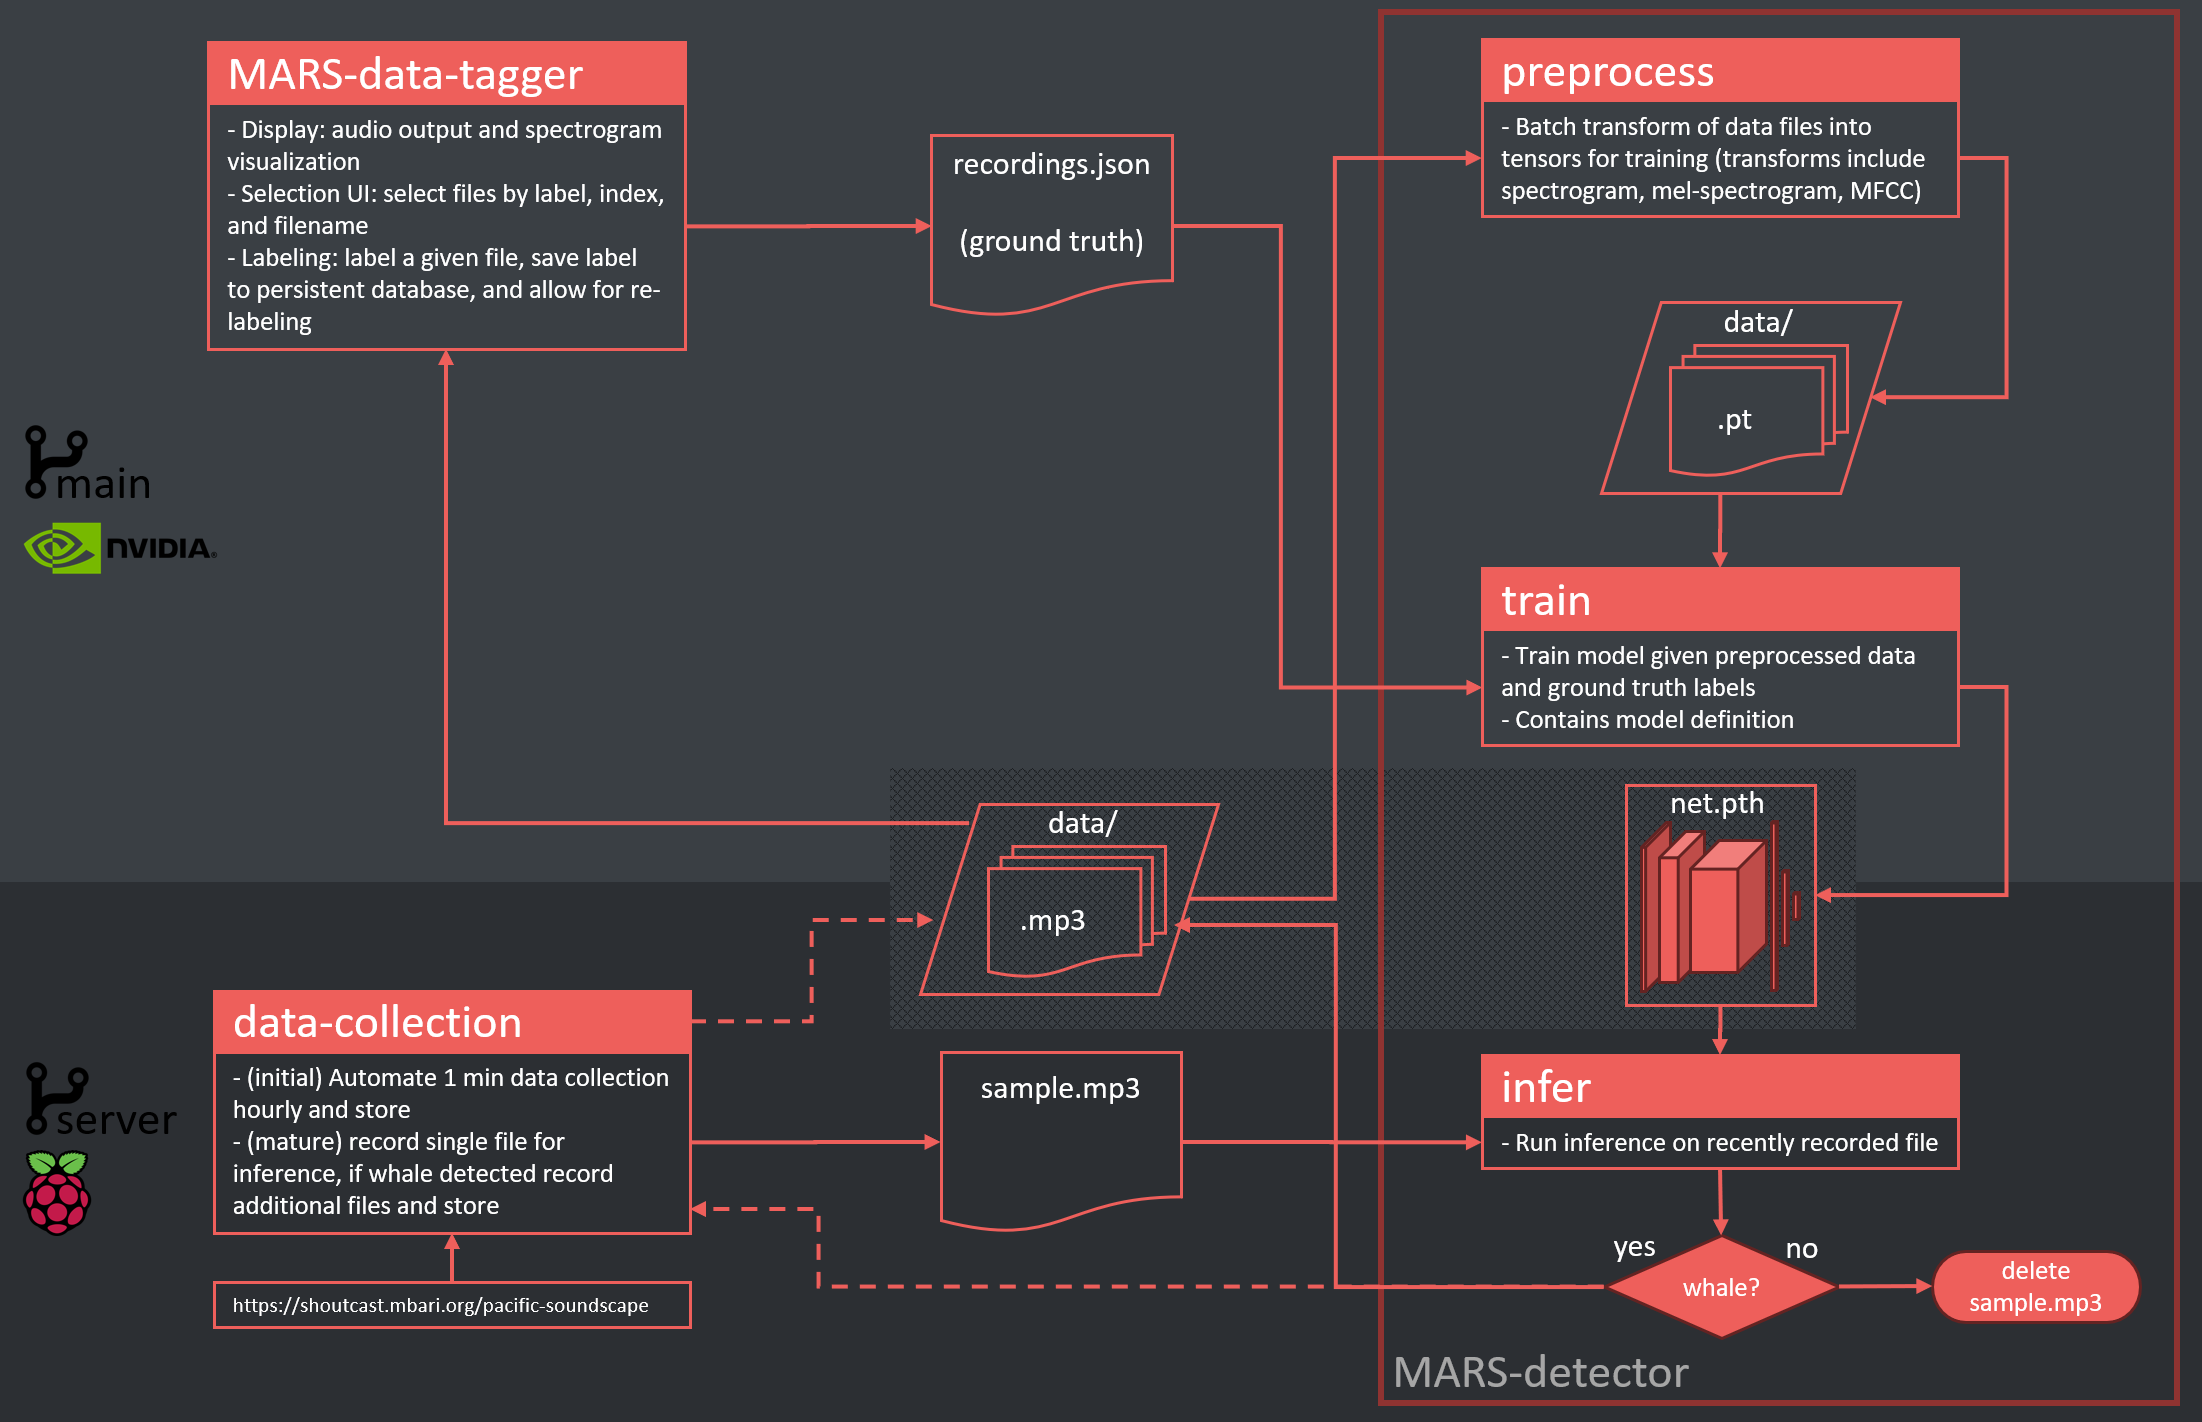
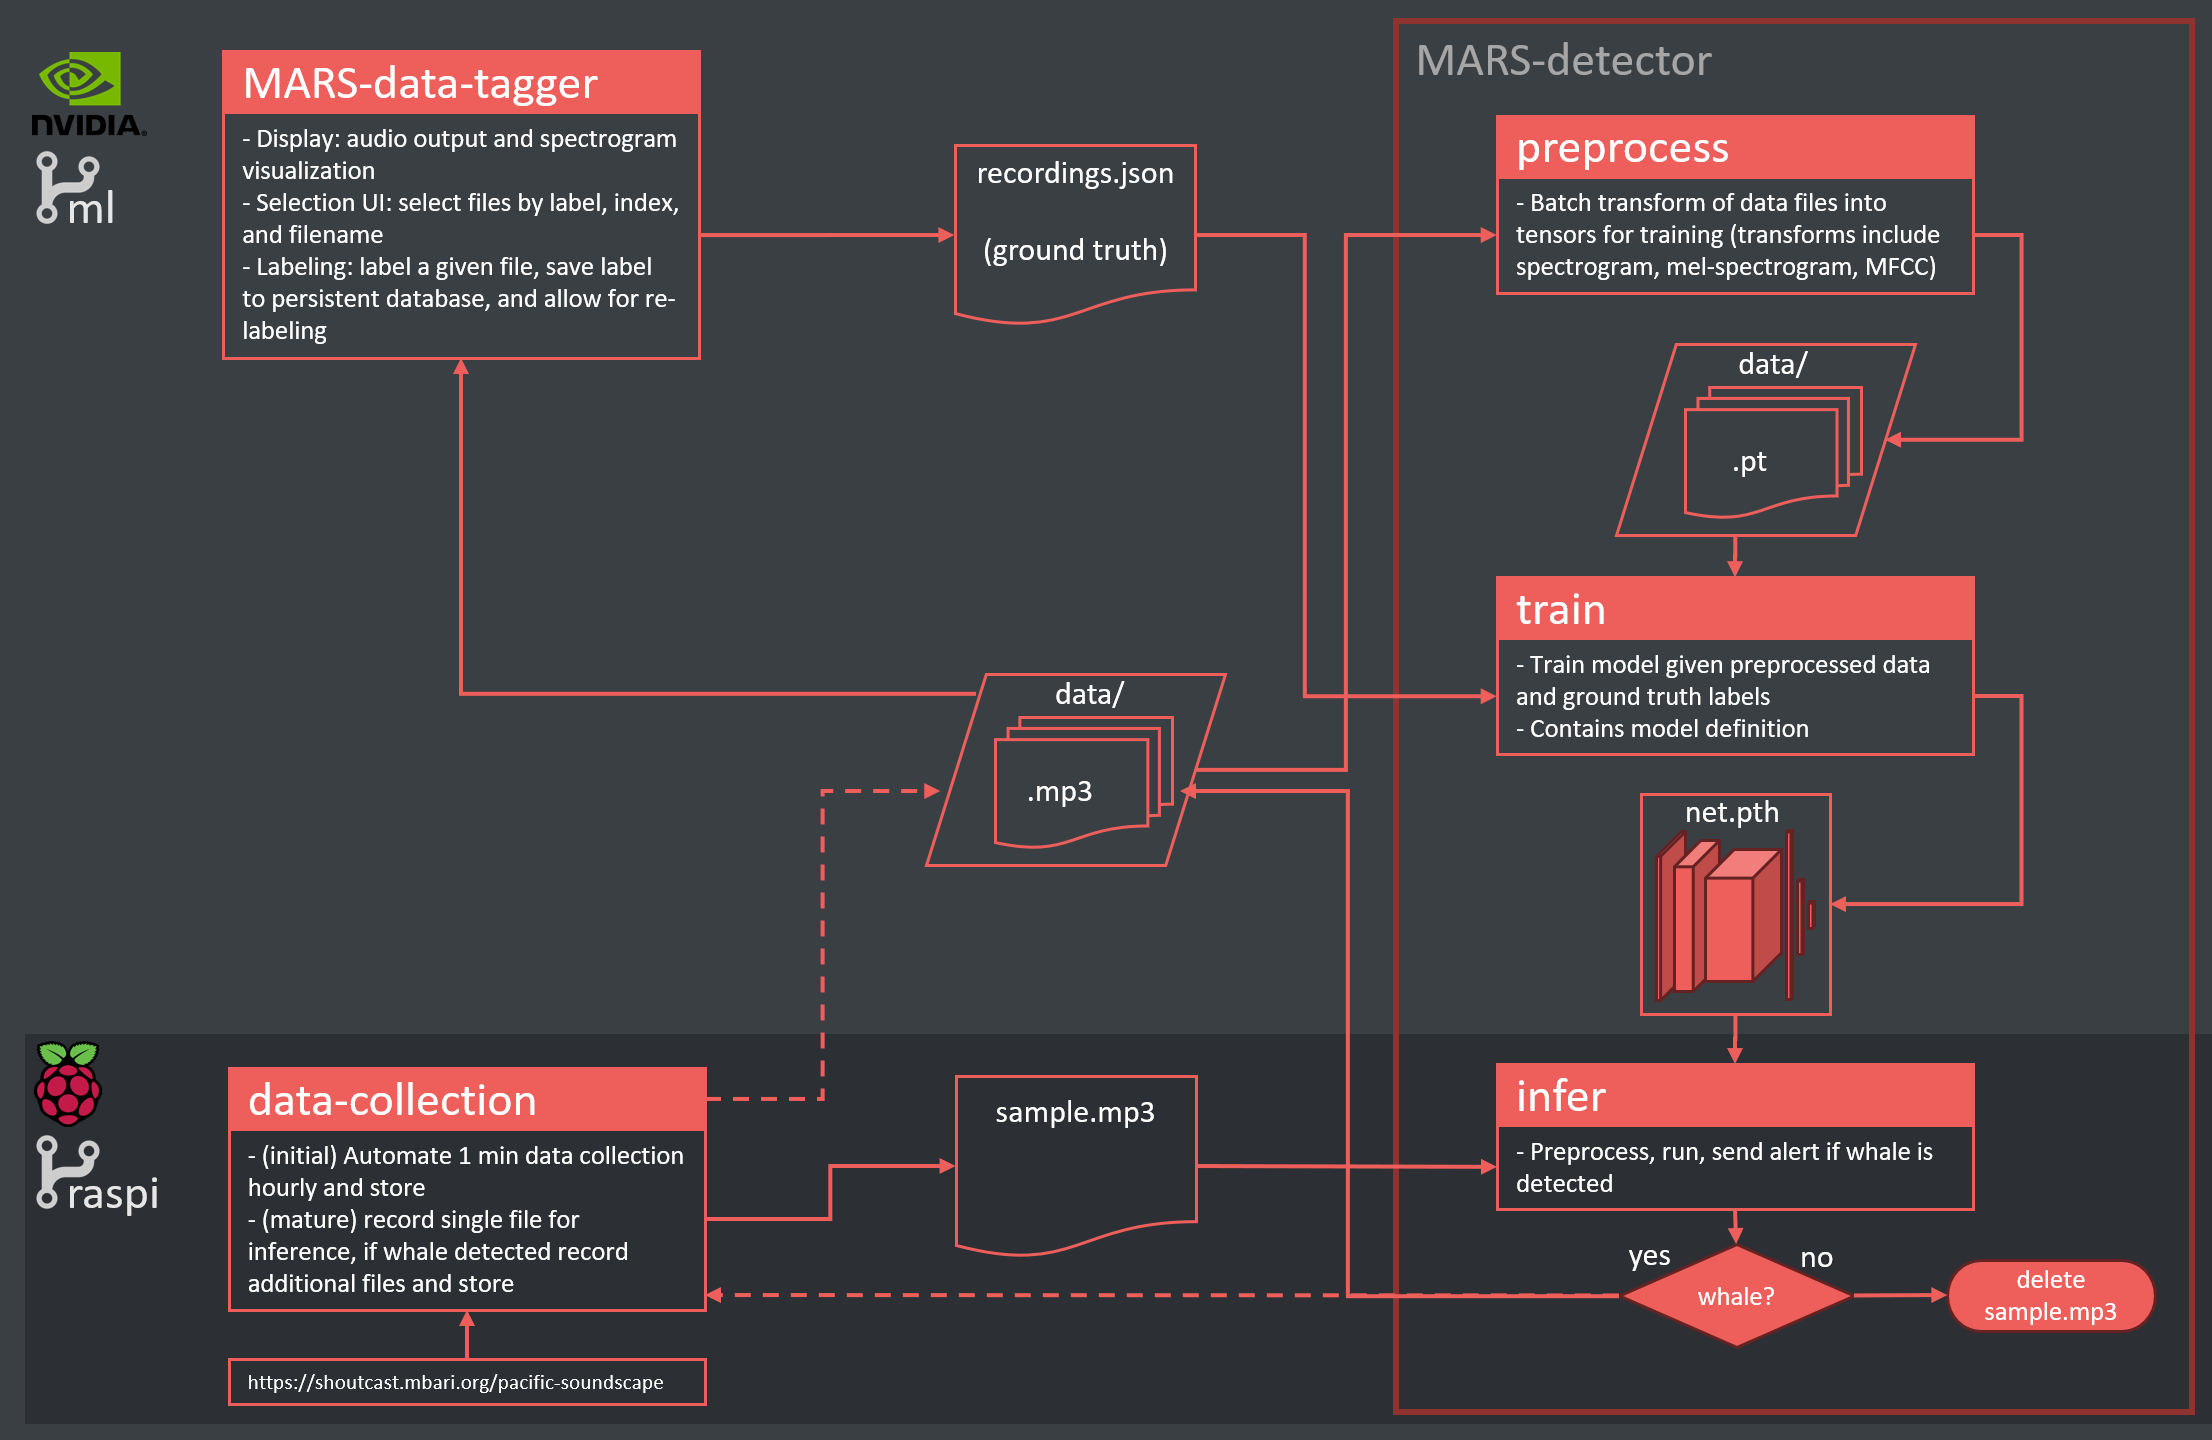
closes #29 updated READMEs

diff --git a/README.md b/README.md
@@ -1,30 +1,38 @@
 # MBARI Hydrophone Stream Monitor
 
-This project will monitor the MBARI hydrophone stream at https://www.mbari.org/soundscape-listening-room/ and determine when humpback whales are vocalizing. 
+This project monitors the MBARI hydrophone stream at https://www.mbari.org/soundscape-listening-room/ and determines when humpback whales are vocalizing. 
 
-After detecting whales, audio clips will be recorded for further analysis and an email alert will be sent out.
+After detecting whales, audio clips are recorded for further analysis and an email alert is sent out.
 
 ![](screenshots/project-architecture.png)
+*Figure 1: Project architecture showing the various code modules and data dependencies. Data tagging and model training are performed on x86 based system with GPU, see ml branch for code. Model inference and data collection completed at set intervals on Raspberry Pi, see raspi branch*
+
 
 ### data-collection 
-shell scripts to collect 10 sec data snippets to build dataset, these are run at regular intervals on a rasberry pi
+This module contains shell scripts that collect 10 sec data snippets. 
+
+In the initial stages of the project data_collect.sh was run at regular intervals (every hour) on a rasberry pi to collect a base dataset for model training.
+
+Once the initial model was constructed, mbari_record.sh is run every 15 minutes to collect a single sample for inference. If a whale is detected the collection is called again to collect more samples for further model development and analysis.
+
 ### MARS-data-tagger
-dash webapp with the following functionality:
-- data pulls from raspberry pi data collector
-- spectrogram visualization and audio control
-- clip labeling
+Dash webapp for data viewing and tagging.
+- pulls audio clip data from raspberry pi
+- provides user with spectrum visualization and clip audio
+- interface to label clips for model training
 - dataset statistics visualization
 
 ![](screenshots/MARS-data-tagger.png)
+*Figure 2: MARS Data Tagger user interface*
 
 ### MARS-detector
 Services to include:
 #### preprocessing
-Batch transform mp3 files into pytorch tesors representing spectrograms, mel-spectrograms, or MFCC functions
+Batch transform mp3 files into pytorch tesors representing mel-spectrograms.
 #### training
-Defines model architecture and contains code to load and balance datasets and train models
+Defines model architecture and contains code to handle datasets and train models.
 #### inference
-Code to run inference on single file input, to be run at regular intervals on a raspberry pi to automate whale detection and follow-on data collection and alert
+Code to run inference on single file input. This is primarily run on a raspberry pi at regular (15 minute) intervals to automate whale detection and follow-on data collection and alert.
 
 References:
 

diff --git a/MARS-detector/README.md b/MARS-detector/README.md
@@ -1,0 +1,9 @@
+This module contains code to preprocess data, train machine learning models, and run inference on data files.
+
+Configuration for training is set in the detector_config.yaml and for inference configuration is done in infer_config.yaml
+
+Experimentation is done in the Jupyter notebooks and codified in the .py files.
+
+scp_model.sh is used to copy files from the trianing machine to the Raspberry Pi for inference.
+
+check_live.sh is the primary inference script that collects a sample of data, runs inference, and performs follow on actions.

diff --git a/data-collection/README.md b/data-collection/README.md
@@ -1,0 +1,7 @@
+This code uses ffmpeg to collect 10s segments of audio from the stream found at https://www.mbari.org/project/soundscape-listening-room/.
+
+mbari_record.sh - collects a single 10s segment
+    usage: mbari_collect.sh [ -m minutes ] [ -s seconds ] [ -o output ]
+
+data_collect.sh - runs mbari_record.sh multiple times to collect a series of audio samples
+    usage: data_collect.sh [ -s smaples ]

diff --git a/MARS-data-tagger/README.md b/MARS-data-tagger/README.md
@@ -1,0 +1,8 @@
+This module contains a dash webapp for data viewing and ground truth labeling.
+
+config.yaml contains spectrogram parameters and the data path
+
+app.py is the main dash webapp
+
+
+![](../screenshots/MARS-data-tagger.png)
